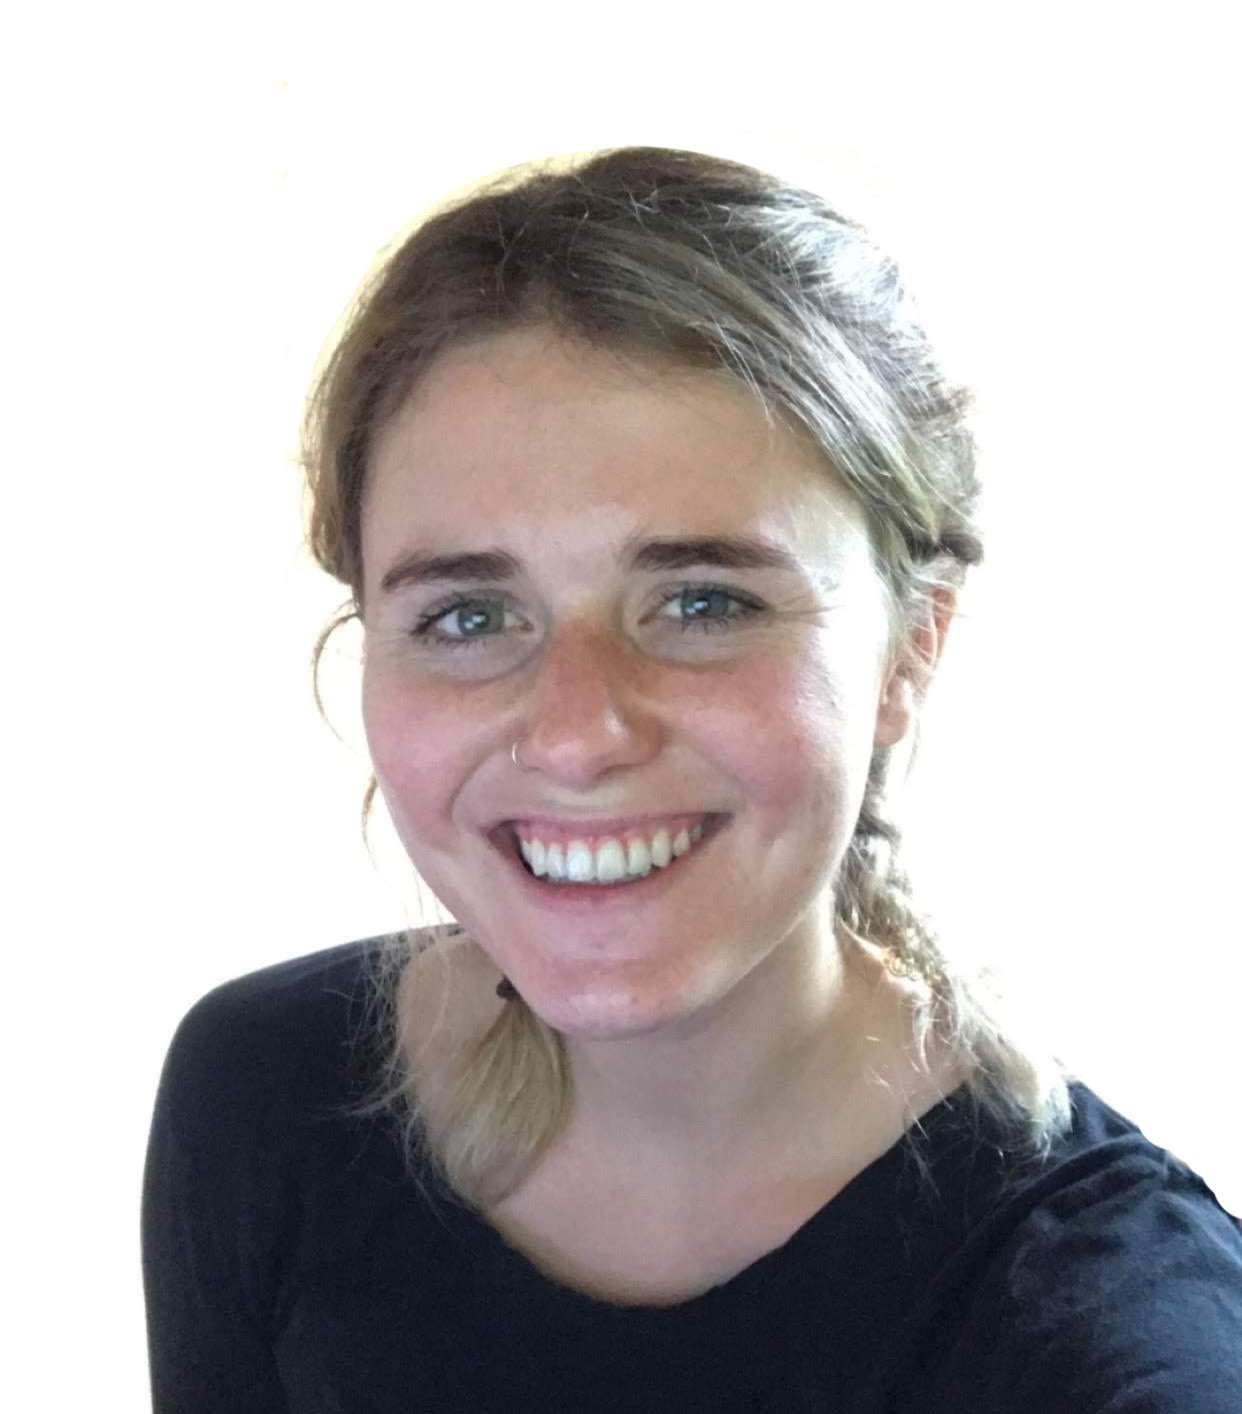
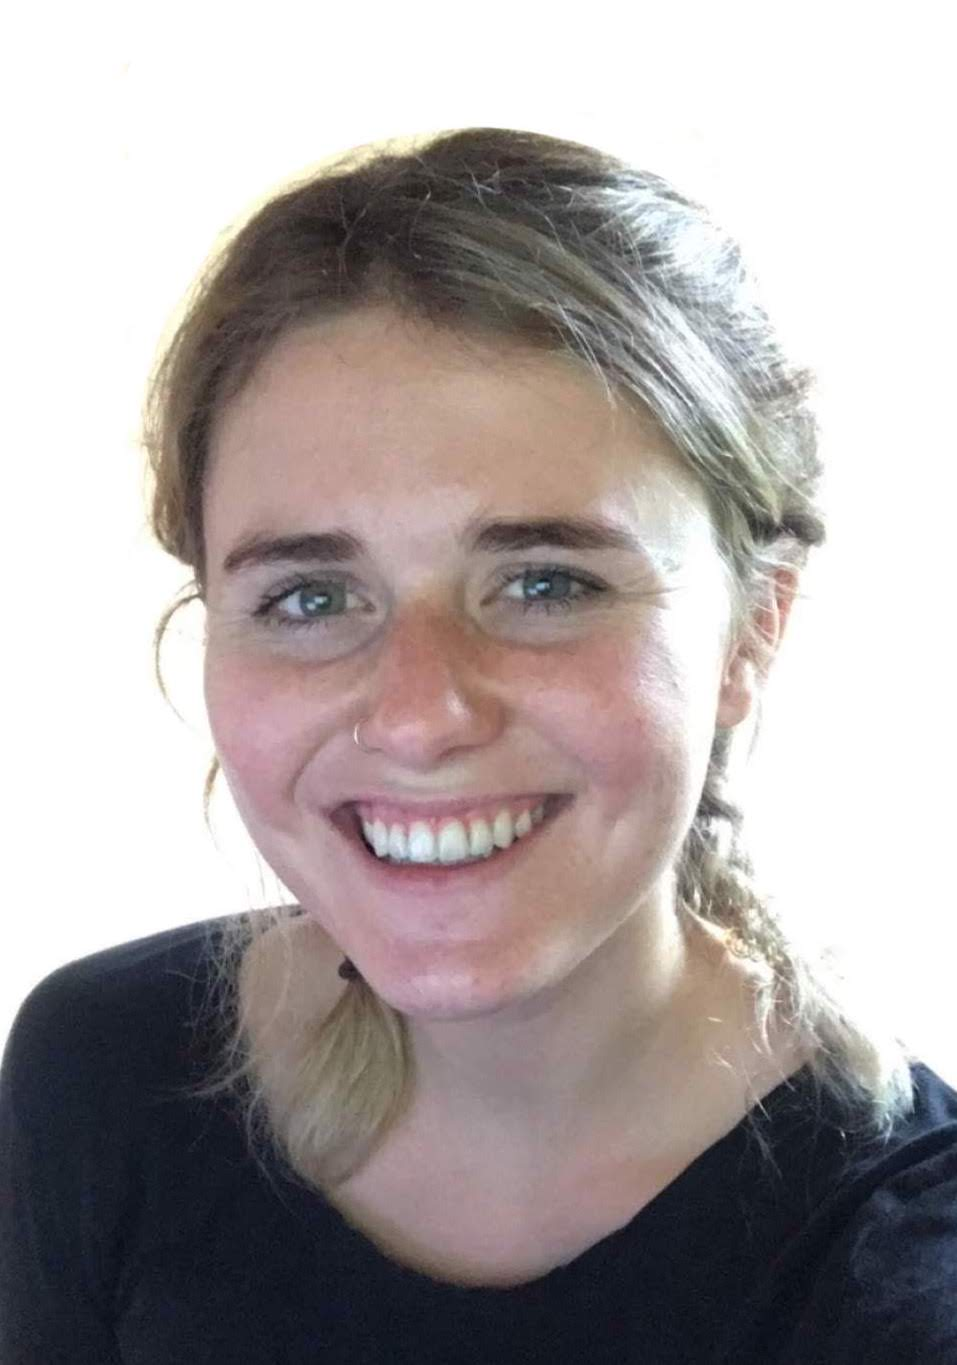
photo resize

diff --git a/pages/01.home/people/default.md b/pages/01.home/people/default.md
@@ -43,8 +43,7 @@ Olwyn Doyle is an undergraduate student at the University of Colorado Boulder, a
 ### Zijun Liu
 Zijun Liu is a computer science undergraduate student at the University of Colorado at Boulder, and a member of THAT RECOMMENDER SYSTEMS LAB. His research interests is machine learning, data science. Especially, he is interested in recommender system. He used to be Course Assistant as CSCI3308 Software Development and CSCI3155 Principle of Programming Language. 
 
-
-# Previous Research Assistants
+<!-- # Previous Research Assistants -->
 
 ![Florencia Cabral photo](Florencia.jpeg?resize=120,150&classes=left)
 ### Florencia Cabral
@@ -54,7 +53,7 @@ Florencia Cabral is a undergraduate student in the Applied Computer Science Post
 # Affiliates
 
 ![Masoud Mansoury photo](MasoudMansoury.jpeg?resize=120,150&classes=left)
-### Masoud Mansoury -->
+### Masoud Mansoury
 Masoud Mansoury is a PhD student in the Department of Mathematics and Computer Science at Eindhoven University of Technology, in Eindhoven, Netherlands. He is also a member of That Recommender Systems Lab. His research interests include machine learning and fairness-aware recommendation algorithms.
 
 
